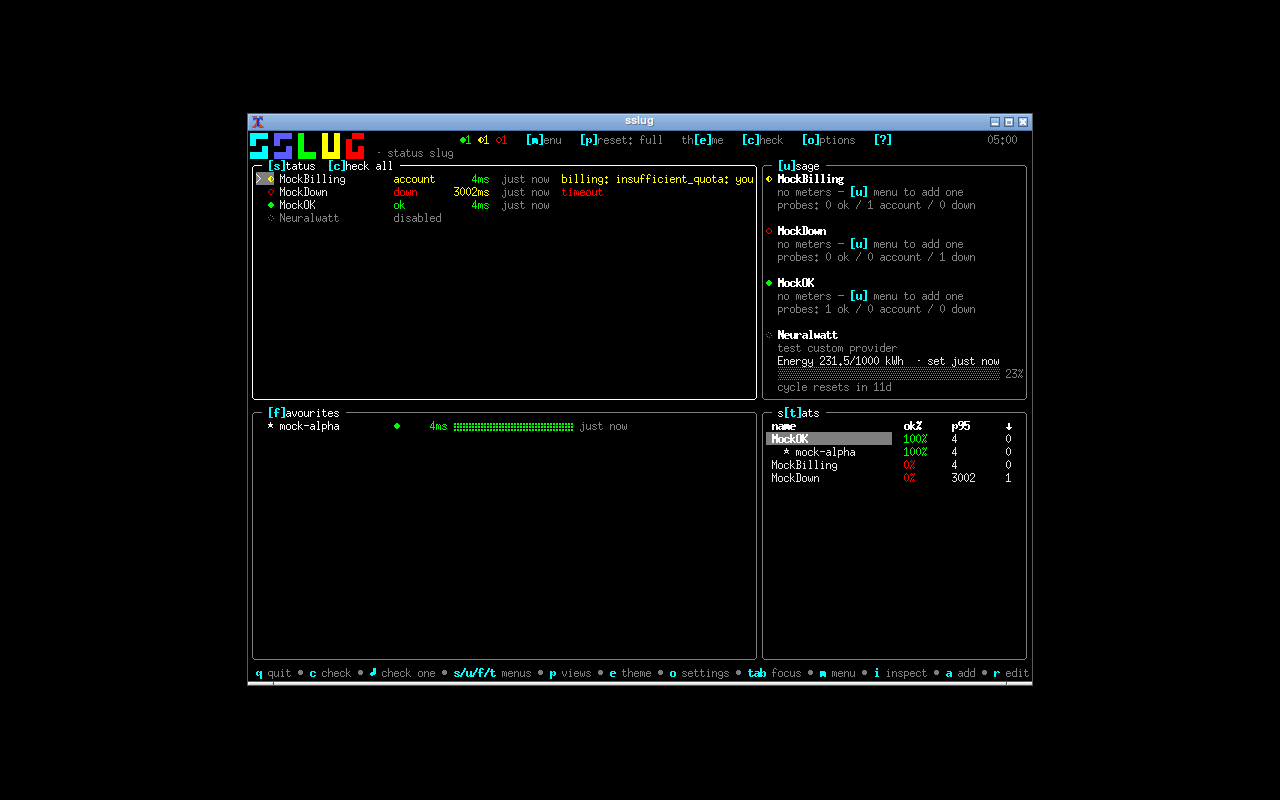
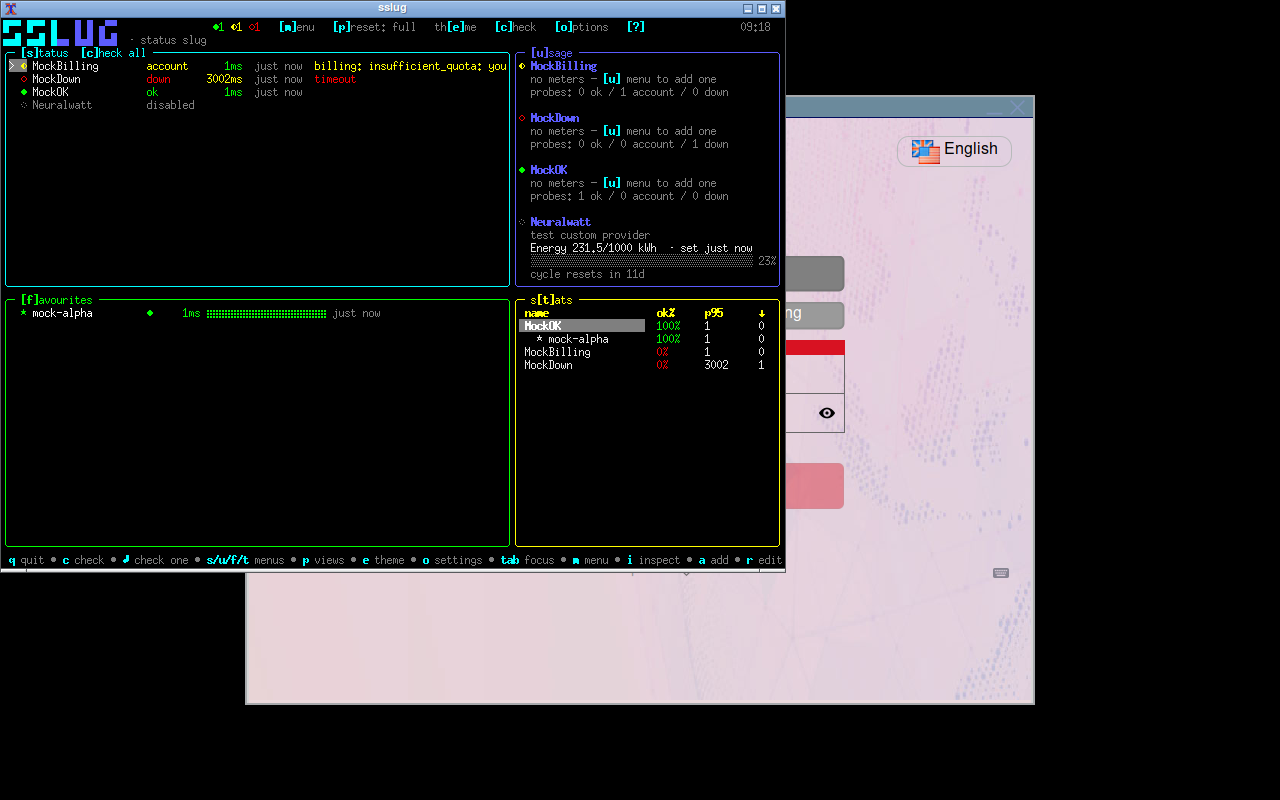
fix: restore cohesive btop-style sstop palette
Undo the patchwork color treatment from the previous pass.

- Remove per-letter rainbow/severity logo coloring; the wordmark is now one restrained cyan-to-blue brand sweep.
- Return sstop to terminal ANSI palette slots so it inherits the user's terminal colors like btop instead of forcing mismatched hex colors through xterm quantization.
- Apply section colors consistently across pane borders, pane titles, grouped headings, usage provider headers, favourites, and stats headers.
- Keep green/yellow/red reserved for semantic status and metric severity inside rows.
- Refresh the dashboard screenshot from the verified repaired render.

diff --git a/internal/tui/dashboard/dashboard.go b/internal/tui/dashboard/dashboard.go
@@ -56,13 +56,30 @@ func panelTitleSegs(p panelID) (before, key, after string) {
 	return "", "", ""
 }
 
-// styledTitle renders a panel heading: bound key in accent (brackets kept),
-// the rest of the word in title color.
+// panelChrome returns the section color used for each pane's border and title.
+// This matches btop's theme language: each panel owns a consistent section
+// color, while ok/warn/err remain semantic inside rows.
+func (m model) panelChrome(p panelID) string {
+	switch p {
+	case panelStatus:
+		return m.palette[theme.Accent]
+	case panelUsage:
+		return m.palette[theme.GradHi]
+	case panelFavourites:
+		return m.palette[theme.OK]
+	case panelStats:
+		return m.palette[theme.Warn]
+	default:
+		return m.palette[theme.Accent]
+	}
+}
+
+// styledTitle renders a panel heading using that panel's chrome color.
 func (m model) styledTitle(p panelID, extra string) string {
 	before, key, after := panelTitleSegs(p)
-	accent := lipgloss.NewStyle().Foreground(lipgloss.Color(m.palette[theme.Accent])).Bold(true)
-	title := lipgloss.NewStyle().Foreground(lipgloss.Color(m.palette[theme.Title]))
-	out := title.Render(before) + accent.Render("["+key+"]") + title.Render(after)
+	chrome := lipgloss.NewStyle().Foreground(lipgloss.Color(m.panelChrome(p))).Bold(true)
+	title := lipgloss.NewStyle().Foreground(lipgloss.Color(m.panelChrome(p)))
+	out := title.Render(before) + chrome.Render("["+key+"]") + title.Render(after)
 	if extra != "" {
 		out += title.Render(extra)
 	}
@@ -1417,13 +1434,12 @@ func (m model) renderGrid(view config.View) string {
 
 // renderPane renders one box. y0 is its absolute screen row (for hit regions).
 func (m model) renderPane(p panelID, y0, w, h int, compact bool) string {
-	focused := m.focused == p
 	title := m.styledTitle(p, "")
 	if p == panelStatus {
-		accent := lipgloss.NewStyle().Foreground(lipgloss.Color(m.palette[theme.Accent])).Bold(true)
-		title += lipgloss.NewStyle().Foreground(lipgloss.Color(m.palette[theme.Title])).
+		accent := lipgloss.NewStyle().Foreground(lipgloss.Color(m.panelChrome(p))).Bold(true)
+		title += lipgloss.NewStyle().Foreground(lipgloss.Color(m.panelChrome(p))).
 			Render("  ") + accent.Render("[c]") +
-			lipgloss.NewStyle().Foreground(lipgloss.Color(m.palette[theme.Title])).Render("heck all")
+			lipgloss.NewStyle().Foreground(lipgloss.Color(m.panelChrome(p))).Render("heck all")
 	}
 
 	innerW := w - 2
@@ -1449,10 +1465,7 @@ func (m model) renderPane(p panelID, y0, w, h int, compact bool) string {
 		contentLines = contentLines[:innerH]
 	}
 
-	borderColor := m.palette[theme.BoxBorder]
-	if focused {
-		borderColor = m.palette[theme.BoxBorderFocus]
-	}
+	borderColor := m.panelChrome(p)
 	bs := lipgloss.RoundedBorder()
 	switch m.cfg.Settings.BorderStyle {
 	case "square":

diff --git a/internal/theme/theme.go b/internal/theme/theme.go
@@ -61,29 +61,28 @@ type Warning struct {
 }
 
 // Builtins.
-// sstop is the default: btop's discipline — white/gray chrome, color reserved
-// for data. Interactive elements (bound keys, selectors, buttons) get bright
-// cyan; titles bright white; borders bright black; art sweeps cyan→blue.
-// Values are ANSI indices so sslug draws from the terminal's own palette,
-// exactly like btop's TTY theme — the two always match.
+// sstop is the default btop-like terminal theme. It intentionally uses ANSI
+// palette slots, not arbitrary hex, so it inherits the user's terminal colors
+// exactly like btop. Structural chrome is cyan/blue/green/yellow by panel;
+// severity data uses green/yellow/red by value.
 var builtinSstop = Palette{
 	Bg:             "",   // terminal default
-	Fg:             "7",  // white
-	Muted:          "8",  // bright black — btop's dim gray
-	Title:          "15", // bright white
-	Accent:         "14", // bright cyan — interactive elements only
+	Fg:             "7",  // terminal foreground/white
+	Muted:          "8",  // dim gray
+	Title:          "15", // bright white body text
+	Accent:         "14", // cyan structural chrome
 	BoxBorder:      "8",
-	BoxBorderFocus: "15", // focused box: bright white, not cyan
-	OK:             "10",
-	Warn:           "11",
-	Err:            "9",
+	BoxBorderFocus: "14",
+	OK:             "10", // green
+	Warn:           "11", // yellow
+	Err:            "9",  // red
 	Unknown:        "8",
-	BarFill:        "10", // bars start green…
+	BarFill:        "10",
 	BarEmpty:       "8",
 	SparkLo:        "8",
 	SparkHi:        "10",
-	GradLo:         "14", // cyan → blue sweep, no magenta
-	GradHi:         "12",
+	GradLo:         "14", // logo sweep: cyan
+	GradHi:         "12", // → blue; no pink/purple/magenta
 	SelectedBg:     "8",
 	SelectedFg:     "15",
 	KeyHint:        "8",

diff --git a/internal/tui/dashboard/panes.go b/internal/tui/dashboard/panes.go
@@ -112,7 +112,7 @@ func (m model) statusGrouped(provs []*config.Provider, w int) []string {
 	var lines []string
 	selIdx := 0
 	for _, l := range order {
-		hdr := lipgloss.NewStyle().Foreground(lipgloss.Color(m.palette[theme.Title])).Bold(true).
+		hdr := lipgloss.NewStyle().Foreground(lipgloss.Color(m.panelChrome(panelStatus))).Bold(true).
 			Render("── " + l + " ")
 		lines = append(lines, hdr)
 		for _, p := range byLabel[l] {
@@ -225,7 +225,7 @@ func (m model) renderUsagePane(w, h int, compact bool) string {
 		} else {
 			dot = m.glyphFor("unknown")
 		}
-		hdr := lipgloss.NewStyle().Foreground(lipgloss.Color(m.palette[theme.Title])).Bold(true)
+		hdr := lipgloss.NewStyle().Foreground(lipgloss.Color(m.panelChrome(panelUsage))).Bold(true)
 		lines = append(lines, dot+" "+hdr.Render(p.Name))
 		if p.Note != "" && !compact {
 			lines = append(lines, "  "+lipgloss.NewStyle().
@@ -378,8 +378,9 @@ func (m model) renderFavouritesPane(w, h int, compact bool) string {
 				}
 			}
 		}
+		favMark := lipgloss.NewStyle().Foreground(lipgloss.Color(m.panelChrome(panelFavourites))).Render(m.glyphFav())
 		line := fmt.Sprintf("%s %-18s %s %s %s %s",
-			m.glyphFav(), name, m.probeGlyph(status),
+			favMark, name, m.probeGlyph(status),
 			m.latencyStyle(latencyMs).Render(fmt.Sprintf("%7s", latency)),
 			sparkStyle.Render(Spark(ring, sparkW, m.cfg.Settings.GraphGlyphs)), dim.Render(age))
 		if i == m.sel[panelFavourites] && m.focused == panelFavourites {
@@ -635,7 +636,7 @@ func (m model) statsTable(w, h int) (table.Model, bool) {
 
 	styles := table.DefaultStyles()
 	styles.Header = styles.Header.
-		Foreground(lipgloss.Color(m.palette[theme.Title])).
+		Foreground(lipgloss.Color(m.panelChrome(panelStats))).
 		Bold(true)
 	styles.Selected = styles.Selected.
 		Foreground(lipgloss.Color(m.palette[theme.SelectedFg])).

diff --git a/internal/theme/gradient.go b/internal/theme/gradient.go
@@ -76,27 +76,16 @@ var ArtLines = []string{
 	"▄▄█ ▄▄█ █▄▄ █▄█ █▄█",
 }
 
-// Art renders the SSLUG block art with per-letter colors from the palette —
-// btop-logo style, each letter its own role — plus the muted wordmark.
+// Art renders the SSLUG block art with the theme's own brand gradient plus the
+// muted wordmark. It is deliberately a single coherent sweep, not per-letter
+// severity colors: the logo is chrome, not a status dashboard.
 func Art(p Palette) string {
-	roles := []Role{Accent, GradHi, OK, Warn, Err}
-	// Letter column spans in the fixed two-row font.
-	spans := [][2]int{{0, 3}, {4, 7}, {8, 11}, {12, 15}, {16, 19}}
-	var lines []string
-	for _, row := range ArtLines {
-		runes := []rune(row)
-		var b strings.Builder
-		for i, span := range spans {
-			chunk := string(runes[span[0]:span[1]])
-			b.WriteString(lipgloss.NewStyle().Foreground(lipgloss.Color(p[roles[i]])).Render(chunk))
-			if span[1] < len(runes) {
-				b.WriteString(" ")
-			}
-		}
-		lines = append(lines, b.String())
-	}
+	body := strings.Join(ArtLines, "\n")
+	painted := GradientText(body, p[GradLo], p[GradHi])
+	word := lipgloss.NewStyle().Foreground(lipgloss.Color(p[Muted])).Render("  · status slug")
+	lines := strings.Split(painted, "\n")
 	if len(lines) > 1 {
-		lines[1] += lipgloss.NewStyle().Foreground(lipgloss.Color(p[Muted])).Render("  · status slug")
+		lines[1] += word
 	}
 	return strings.Join(lines, "\n")
 }
